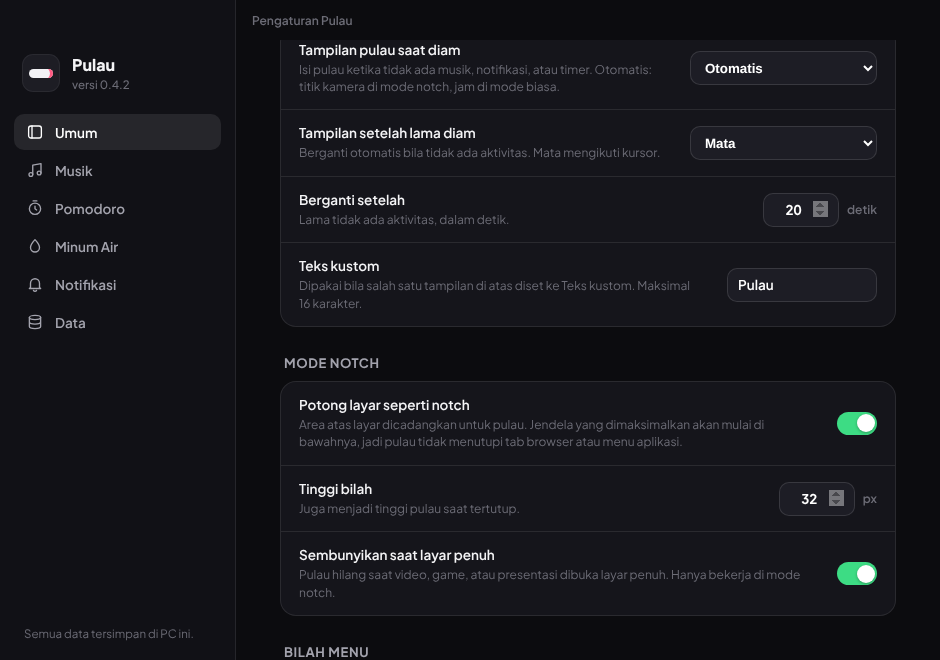
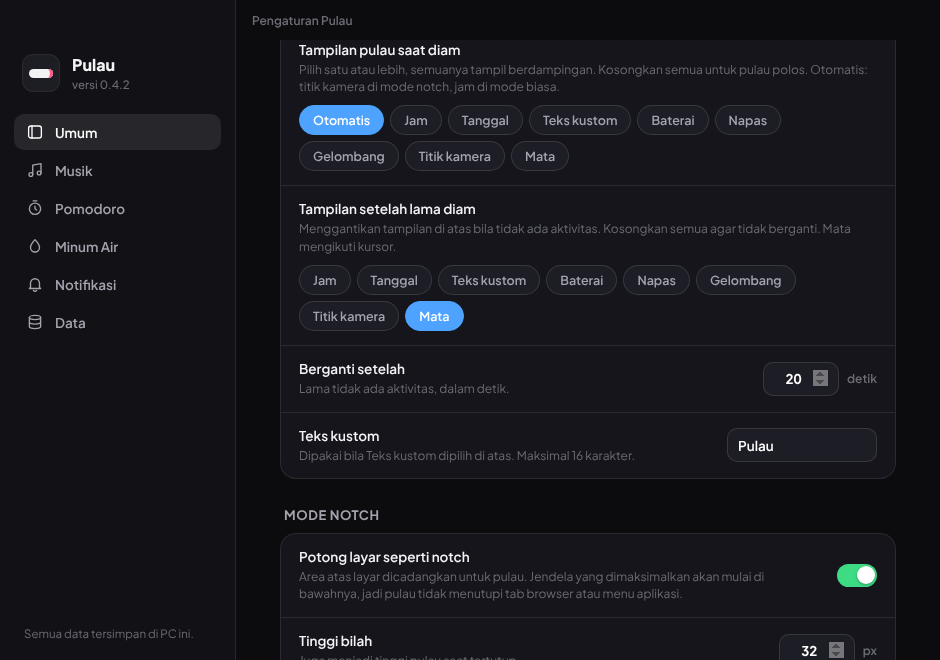
Idle multi pilihan dan tanpa titik hijau (0.5.1)
Claude-Session: https://claude.ai/code/session_01F5Jrps2tSw5S6jwc8pbno1

diff --git a/renderer/js/core.js b/renderer/js/core.js
@@ -160,13 +160,14 @@ function render() {
   else if (buildCompact()) mode = 'compact';
   else mode = 'idle';
   if (mode !== 'idle') P.alt = false;
-  const idle = mode === 'idle' ? idleStyle() : '';
+  const idle = mode === 'idle' ? idleItems() : [];
 
   island.dataset.mode = mode;
   island.dataset.page = P.page;
-  island.dataset.idle = idle;
+  island.dataset.idle = idle.join(' ');
   idleApply();
-  if ((idle === 'eyes') !== P.curOn) { P.curOn = idle === 'eyes'; api.wantCursor(P.curOn); }
+  const eyesOn = idle.includes('eyes');
+  if (eyesOn !== P.curOn) { P.curOn = eyesOn; api.wantCursor(eyesOn); }
   island.classList.toggle('al-small', mode === 'alert' && (P.alert.h || 64) < 56);
 
   const notch = !!P.S.notch;
@@ -178,8 +179,7 @@ function render() {
   if (mode === 'expanded') { w = P.mods[P.page].width(); h = 190; }
   else if (mode === 'alert') { w = P.alert.w || 380; h = Math.max(P.alert.h || 64, notch ? barH : 0); }
   else if (mode === 'compact') { w = P.compactW; h = notch ? barH : 38; }
-  else if (idle === 'eyes') { w = 124; }
-  else if (idle === 'text') { w = Math.max(150, Math.min(280, 44 + (String(P.S.idleText || '').length) * 8)); }
+  else if (idle.length) { w = idleWidth(idle); }
   island.style.width = w + 'px';
   island.style.height = h + 'px';
 
@@ -285,20 +285,34 @@ function clock() {
 }
 
 /* ---------- tampilan idle (bisa dikustom) ---------- */
-const IDLE_STYLES = ['clock', 'date', 'text', 'battery', 'breath', 'wave', 'cam', 'eyes', 'none'];
+const IDLE_ITEMS = ['cam', 'eyes', 'breath', 'wave', 'clock', 'date', 'text', 'battery']; // urutan tampil
 const idleBat = { level: -1, charging: false };
-// gaya yang berlaku sekarang: gaya dasar, atau gaya "setelah lama diam" bila P.alt aktif
-function idleStyle() {
-  let s = P.alt ? P.S.idleAlt : P.S.idleStyle;
-  if (!s || s === 'auto' || s === 'same' || !IDLE_STYLES.includes(s)) s = P.S.notch && P.S.menubar !== false ? 'cam' : 'clock';
-  if (s === 'battery' && idleBat.level < 0) s = P.S.notch && P.S.menubar !== false ? 'cam' : 'clock'; // PC tanpa baterai
-  return s;
+const autoIdle = () => (P.S.notch && P.S.menubar !== false ? 'cam' : 'clock');
+// item yang tampil sekarang: pilihan dasar, atau pilihan "setelah lama diam" bila P.alt aktif
+function idleItems() {
+  const raw = P.alt ? P.S.idleAltItems : P.S.idleItems;
+  const list = Array.isArray(raw) ? raw : [];
+  const set = new Set(list.map((x) => (x === 'auto' ? autoIdle() : x)));
+  if (idleBat.level < 0) set.delete('battery'); // PC tanpa baterai
+  if (!set.size && list.length) set.add(autoIdle());
+  return IDLE_ITEMS.filter((x) => set.has(x));
 }
-let idleSig = '';
+let idleSig = '', idleW = 150;
+// lebar pulau mengikuti isinya; diukur hanya saat isi berubah
+function idleWidth(items) {
+  if (items.length === 1 && items[0] === 'eyes') return 124;
+  const sig = items.join() + '|' + (P.S.idleText || '') + '|' + $('#idleDate').textContent + '|' + idleBat.level;
+  if (sig === idleSig) return idleW;
+  idleSig = sig;
+  const row = $('#idleRow');
+  idleW = Math.max(150, Math.min(380, Math.ceil(row.offsetWidth) + 44));
+  return idleW;
+}
+let idleApplied = '';
 function idleApply() { // tulis DOM hanya bila isinya berubah
   const sig = (P.S.idleText || '') + '|' + idleBat.level + idleBat.charging;
-  if (sig === idleSig) return;
-  idleSig = sig;
+  if (sig === idleApplied) return;
+  idleApplied = sig;
   $('#idleText').textContent = String(P.S.idleText || '').slice(0, 16);
   if (idleBat.level >= 0) {
     const pct = Math.round(idleBat.level * 100);
@@ -319,13 +333,12 @@ if (navigator.getBattery) {
 }
 function eyesTick() { // nama lama: sekarang mengatur peralihan ke gaya "setelah lama diam"
   if (!P.S) return;
-  const alt = P.S.idleAlt;
-  const want = !!alt && alt !== 'same' && island.dataset.mode === 'idle' && !P.alert &&
+  const want = Array.isArray(P.S.idleAltItems) && P.S.idleAltItems.length > 0 && island.dataset.mode === 'idle' && !P.alert &&
     Date.now() - P.lastActive > (P.S.eyesAfter || 20) * 1000;
   if (want !== P.alt) { P.alt = want; render(); }
 }
 api.onCursor(({ x, y }) => {
-  if (island.dataset.idle !== 'eyes') return;
+  if (!P.curOn) return;
   const cx = window.innerWidth / 2;
   const ex = Math.max(-1, Math.min(1, (x - cx) / 220)) * 3.5;
   const ey = Math.max(-1, Math.min(1, (y - 16) / 220)) * 3.5;

diff --git a/renderer/island.css b/renderer/island.css
@@ -40,7 +40,7 @@ body:not(.menubar) .mb-left, body:not(.menubar) .mb-right { visibility: hidden; 
 .mb-it svg .dim { opacity: .3; }
 .mb-it .pct { font-size: 12px; }
 .mb-clock { font-weight: 600; }
-.cam { display: none; grid-area: 1 / 1; width: 9px; height: 9px; border-radius: 50%; background: radial-gradient(circle at 35% 35%, #2b3242 0 25%, #12141a 45%); box-shadow: 0 0 0 1.5px #0b0b0d; }
+.cam { display: none; width: 9px; height: 9px; border-radius: 50%; background: radial-gradient(circle at 35% 35%, #2b3242 0 25%, #12141a 45%); box-shadow: 0 0 0 1.5px #0b0b0d; }
 body.bar-black #island::before, body.bar-black #island::after { display: none; }
 body.bar-black #island[data-mode="idle"] .body, body.bar-black #island[data-mode="compact"] .body { box-shadow: none; }
 body.notch .c-left .art { width: min(26px, calc(var(--barh) - 6px)); height: min(26px, calc(var(--barh) - 6px)); }
@@ -128,19 +128,20 @@ body.notch .c-left .art { width: min(26px, calc(var(--barh) - 6px)); height: min
 
 /* ================= idle ================= */
 .v-idle { display: grid; place-items: center; }
-/* hanya satu gaya yang tampil; yang lain display:none sehingga animasinya benar benar berhenti */
-.v-idle > * { grid-area: 1 / 1; display: none; animation: idleIn .35s ease both; }
+.idle-row { display: flex; align-items: center; justify-content: center; gap: 12px; white-space: nowrap; flex: none; }
+/* hanya gaya yang dipilih yang tampil; sisanya display:none sehingga animasinya benar benar berhenti */
+.idle-row > * { display: none; flex: none; animation: idleIn .35s ease both; }
 @keyframes idleIn { from { opacity: 0; transform: scale(.7); } to { opacity: 1; transform: none; } }
-#island[data-idle="clock"] .idle-clock { display: flex; }
-#island[data-idle="date"] .idle-date { display: block; }
-#island[data-idle="text"] .idle-text { display: block; }
-#island[data-idle="battery"] .idle-bat { display: flex; }
-#island[data-idle="breath"] .idle-breath { display: block; }
-#island[data-idle="wave"] .idle-wave { display: block; }
-#island[data-idle="cam"] .cam { display: block; }
-#island[data-idle="eyes"] .eyes { display: flex; }
+#island[data-idle~="clock"] .idle-clock { display: flex; }
+#island[data-idle~="date"] .idle-date { display: block; }
+#island[data-idle~="text"] .idle-text { display: block; }
+#island[data-idle~="battery"] .idle-bat { display: flex; }
+#island[data-idle~="breath"] .idle-breath { display: block; }
+#island[data-idle~="wave"] .idle-wave { display: block; }
+#island[data-idle~="cam"] .cam { display: block; }
+#island[data-idle~="eyes"] .eyes { display: flex; }
 .idle-clock { align-items: center; gap: 8px; font-size: 13px; font-weight: 700; letter-spacing: .2px; font-variant-numeric: tabular-nums; }
-.idle-date, .idle-text { font-size: 12.5px; font-weight: 700; letter-spacing: .2px; white-space: nowrap; overflow: hidden; text-overflow: ellipsis; max-width: 100%; padding: 0 12px; }
+.idle-date, .idle-text { font-size: 12.5px; font-weight: 700; letter-spacing: .2px; white-space: nowrap; }
 .idle-bat { align-items: center; gap: 6px; font-size: 12px; font-weight: 700; font-variant-numeric: tabular-nums; }
 .idle-bat svg { width: 16px; height: 16px; transform: rotate(-90deg); fill: none; stroke-width: 2.6; stroke-linecap: round; }
 .idle-bat .trk { stroke: rgba(255, 255, 255, .22); }
@@ -150,7 +151,6 @@ body.notch .c-left .art { width: min(26px, calc(var(--barh) - 6px)); height: min
 .idle-wave { width: 56px; height: 14px; overflow: hidden; -webkit-mask-image: linear-gradient(90deg, transparent, #000 28%, #000 72%, transparent); }
 .idle-wave svg { display: block; fill: none; stroke: rgb(var(--accent)); stroke-width: 1.8; stroke-linecap: round; animation: wave 2.4s linear infinite; }
 @keyframes wave { from { transform: translateX(0); } to { transform: translateX(-56px); } }
-.live-dot { width: 7px; height: 7px; border-radius: 50%; background: var(--green); box-shadow: 0 0 8px rgba(61, 220, 132, .7); }
 .eyes { gap: 14px; }
 .eye { width: 15px; height: 19px; border-radius: 50%; background: #fff; position: relative; overflow: hidden; animation: blink 5.5s infinite; }
 .eye b { position: absolute; width: 8px; height: 9px; border-radius: 50%; background: #000; left: 3.5px; top: 5px; transform: translate(var(--ex, 0), var(--ey, 0)); transition: transform .14s ease-out; }

diff --git a/renderer/settings.html b/renderer/settings.html
@@ -36,34 +36,12 @@
     </div>
     <h2>Tampilan saat diam</h2>
     <div class="card">
-      <label class="row"><div><b>Tampilan pulau saat diam</b><span>Isi pulau ketika tidak ada musik, notifikasi, atau timer. Otomatis: titik kamera di mode notch, jam di mode biasa.</span></div>
-        <select class="sel" data-k="idleStyle">
-          <option value="auto">Otomatis</option>
-          <option value="clock">Jam</option>
-          <option value="date">Tanggal</option>
-          <option value="text">Teks kustom</option>
-          <option value="battery">Baterai</option>
-          <option value="breath">Napas (titik berdenyut)</option>
-          <option value="wave">Gelombang</option>
-          <option value="cam">Titik kamera</option>
-          <option value="eyes">Mata</option>
-          <option value="none">Kosong</option>
-        </select></label>
-      <label class="row"><div><b>Tampilan setelah lama diam</b><span>Berganti otomatis bila tidak ada aktivitas. Mata mengikuti kursor.</span></div>
-        <select class="sel" data-k="idleAlt">
-          <option value="same">Tidak berganti</option>
-          <option value="eyes">Mata</option>
-          <option value="breath">Napas (titik berdenyut)</option>
-          <option value="wave">Gelombang</option>
-          <option value="clock">Jam</option>
-          <option value="date">Tanggal</option>
-          <option value="text">Teks kustom</option>
-          <option value="battery">Baterai</option>
-          <option value="cam">Titik kamera</option>
-          <option value="none">Kosong</option>
-        </select></label>
+      <div class="row col"><div><b>Tampilan pulau saat diam</b><span>Pilih satu atau lebih, semuanya tampil berdampingan. Kosongkan semua untuk pulau polos. Otomatis: titik kamera di mode notch, jam di mode biasa.</span></div>
+        <div class="chips" data-multi="idleItems"><button class="chip" data-v="auto">Otomatis</button><button class="chip" data-v="clock">Jam</button><button class="chip" data-v="date">Tanggal</button><button class="chip" data-v="text">Teks kustom</button><button class="chip" data-v="battery">Baterai</button><button class="chip" data-v="breath">Napas</button><button class="chip" data-v="wave">Gelombang</button><button class="chip" data-v="cam">Titik kamera</button><button class="chip" data-v="eyes">Mata</button></div></div>
+      <div class="row col"><div><b>Tampilan setelah lama diam</b><span>Menggantikan tampilan di atas bila tidak ada aktivitas. Kosongkan semua agar tidak berganti. Mata mengikuti kursor.</span></div>
+        <div class="chips" data-multi="idleAltItems"><button class="chip" data-v="clock">Jam</button><button class="chip" data-v="date">Tanggal</button><button class="chip" data-v="text">Teks kustom</button><button class="chip" data-v="battery">Baterai</button><button class="chip" data-v="breath">Napas</button><button class="chip" data-v="wave">Gelombang</button><button class="chip" data-v="cam">Titik kamera</button><button class="chip" data-v="eyes">Mata</button></div></div>
       <label class="row"><div><b>Berganti setelah</b><span>Lama tidak ada aktivitas, dalam detik.</span></div><span class="num"><input type="number" data-k="eyesAfter" min="5" max="600" step="5"><em>detik</em></span></label>
-      <label class="row"><div><b>Teks kustom</b><span>Dipakai bila salah satu tampilan di atas diset ke Teks kustom. Maksimal 16 karakter.</span></div><input type="text" class="sel" data-k="idleText" maxlength="16" style="width:150px;cursor:text"></label>
+      <label class="row"><div><b>Teks kustom</b><span>Dipakai bila Teks kustom dipilih di atas. Maksimal 16 karakter.</span></div><input type="text" class="sel" data-k="idleText" maxlength="16" style="width:150px;cursor:text"></label>
     </div>
     <h2>Mode notch</h2>
     <div class="card">

diff --git a/renderer/js/settings.js b/renderer/js/settings.js
@@ -22,6 +22,10 @@ function fill() {
     const v = getP(S, el.dataset.k);
     if (el.type === 'checkbox') el.checked = !!v;
     else if (document.activeElement !== el) el.value = v;
+  }
+  for (const box of $$('[data-multi]')) {
+    const cur = getP(S, box.dataset.multi);
+    for (const c of box.children) c.classList.toggle('on', Array.isArray(cur) && cur.includes(c.dataset.v));
   }  // baris yang hanya relevan untuk pilihan tertentu, misalnya data-when="barEffect=blur"
   for (const el of $$('[data-when]')) {
     const [k, v] = el.dataset.when.split('=');
@@ -52,6 +56,17 @@ function bind() {
         api.set('settings', S); toast();
       });
     }
+  }
+  // pilihan ganda berbentuk chip: Otomatis saling menggantikan dengan pilihan lain
+  for (const box of $$('[data-multi]')) {
+    box.addEventListener('click', (e) => {
+      const c = e.target.closest('.chip'); if (!c) return;
+      const k = box.dataset.multi, v = c.dataset.v;
+      let cur = Array.isArray(getP(S, k)) ? [...getP(S, k)] : [];
+      if (cur.includes(v)) cur = cur.filter((x) => x !== v);
+      else cur = v === 'auto' ? ['auto'] : [...cur.filter((x) => x !== 'auto'), v];
+      setP(S, k, cur); api.set('settings', S); fill(); toast();
+    });
   }
   // cegah semua halaman dimatikan
   for (const el of $$('[data-k^="pages."]')) {

diff --git a/renderer/index.html b/renderer/index.html
@@ -27,16 +27,16 @@
 <div class="body">
 
   <!-- IDLE: gaya dipilih lewat data-idle -->
-  <div class="view v-idle">
-    <div class="idle-clock"><span class="live-dot"></span><span id="clock">00:00</span></div>
+  <div class="view v-idle"><div class="idle-row" id="idleRow">
+    <div class="cam"></div>
+    <div class="eyes"><i class="eye"><b></b></i><i class="eye"><b></b></i></div>
+    <div class="idle-breath"><i></i></div>
+    <div class="idle-wave"><svg viewBox="0 0 112 14" width="112" height="14"><path d="M0 7Q7 0 14 7T28 7T42 7T56 7T70 7T84 7T98 7T112 7"/></svg></div>
+    <div class="idle-clock"><span id="clock">00:00</span></div>
     <div class="idle-date" id="idleDate"></div>
     <div class="idle-text" id="idleText"></div>
     <div class="idle-bat"><svg viewBox="0 0 20 20"><circle cx="10" cy="10" r="7.5" class="trk"/><circle cx="10" cy="10" r="7.5" class="val" id="idleBatVal"/></svg><span id="idleBatPct"></span></div>
-    <div class="idle-breath"><i></i></div>
-    <div class="idle-wave"><svg viewBox="0 0 112 14" width="112" height="14"><path d="M0 7Q7 0 14 7T28 7T42 7T56 7T70 7T84 7T98 7T112 7"/></svg></div>
-    <div class="cam"></div>
-    <div class="eyes"><i class="eye"><b></b></i><i class="eye"><b></b></i></div>
-  </div>
+  </div></div>
 
   <!-- COMPACT -->
   <div class="view v-compact">

diff --git a/main.js b/main.js
@@ -450,6 +450,13 @@ app.whenReady().then(() => {
   // migrasi dari 0.4.9: saklar "mata" menjadi pilihan gaya idle (idleAlt)
   { const s = store.get('settings');
     if (!s._migrated050) { if (s.eyes === false) s.idleAlt = 'same'; delete s.eyes; s._migrated050 = true; store.set('settings', s); } }
+  // migrasi dari 0.5.0: gaya idle tunggal (teks) menjadi daftar yang bisa dipilih banyak (idleItems, idleAltItems)
+  { const s = store.get('settings');
+    if (!s._migrated051) {
+      if (typeof s.idleStyle === 'string') s.idleItems = [s.idleStyle];
+      if (typeof s.idleAlt === 'string') s.idleAltItems = s.idleAlt === 'same' || s.idleAlt === 'none' ? [] : [s.idleAlt];
+      delete s.idleStyle; delete s.idleAlt; s._migrated051 = true; store.set('settings', s);
+    } }
   lastSettings = JSON.parse(JSON.stringify(store.get('settings')));
   log.setLevel(lastSettings.logLevel);
   log.info('app', `Pulau ${app.getVersion()} dimulai (Electron ${process.versions.electron}, Windows ${process.getSystemVersion ? process.getSystemVersion() : ''})`);

diff --git a/renderer/settings.css b/renderer/settings.css
@@ -72,3 +72,9 @@ label.row { cursor: pointer; }
 .toast.on { opacity: 1; transform: translate(-50%, 0); }
 
 .row.hidden { display: none; }
+
+.row.col { flex-direction: column; align-items: stretch; gap: 10px; }
+.chips { display: flex; flex-wrap: wrap; gap: 6px; }
+.chip { height: 30px; padding: 0 13px; border-radius: 15px; border: 1px solid rgba(255, 255, 255, .12); background: #1d1d25; color: var(--txt2, #ccc); font: inherit; font-weight: 600; font-size: 12.5px; cursor: pointer; transition: background .15s, border-color .15s, color .15s; }
+.chip:hover { border-color: rgba(255, 255, 255, .3); }
+.chip.on { background: var(--blue); border-color: var(--blue); color: #fff; }

diff --git a/store.js b/store.js
@@ -8,8 +8,8 @@ const DEFAULTS = {
     lyricsCompact: true,
     artColor: true,
     artOnline: true,
-    idleStyle: 'auto',
-    idleAlt: 'eyes',
+    idleItems: ['auto'],
+    idleAltItems: ['eyes'],
     idleText: 'Pulau',
     notch: true,
     notchBlack: true,

diff --git a/README.md b/README.md
@@ -2,7 +2,7 @@
 
 *Dynamic Island* untuk Windows 10 dan 11. Sebuah kapsul hitam di tengah atas layar yang menampilkan pemutar musik dengan lirik tersinkron, timer Pomodoro, pengingat minum, rak file, daftar tugas, dan notifikasi sistem. Semua data tersimpan di PC sendiri, tanpa akun dan tanpa server.
 
-> Status: versi 0.5.0. Dibuat dengan Electron. Bagian yang membaca musik dan sistem dari Windows belum diuji pada banyak perangkat, jadi laporan *bug* sangat membantu.
+> Status: versi 0.5.1. Dibuat dengan Electron. Bagian yang membaca musik dan sistem dari Windows belum diuji pada banyak perangkat, jadi laporan *bug* sangat membantu.
 
 ## Fitur
 
@@ -16,7 +16,7 @@
 | Rak File | Seret file ke pulau, seret keluar ke aplikasi lain. Hanya menyimpan lokasi file. |
 | Daftar Tugas | Tugas harian dengan pengingat jam. Klik dua kali untuk mengubah teks. |
 | Notifikasi sistem | Pengisi daya, baterai lemah, *headphone* atau *speaker* terhubung, Caps Lock, volume. |
-| Tampilan saat diam | Isi pulau saat tidak ada musik atau notifikasi bisa dipilih: jam, tanggal, teks kustom (maks. 16 karakter), baterai, napas, gelombang, titik kamera, mata, atau kosong. Ada pilihan kedua yang menggantikannya setelah beberapa saat tanpa aktivitas (bawaan: mata yang mengikuti kursor). |
+| Tampilan saat diam | Isi pulau saat tidak ada musik atau notifikasi bisa dipilih lebih dari satu dan tampil berdampingan: jam, tanggal, teks kustom (maks. 16 karakter), baterai, napas, gelombang, titik kamera, atau mata. Kosongkan semua untuk pulau polos. Ada pilihan kedua yang menggantikannya setelah beberapa saat tanpa aktivitas (bawaan: mata yang mengikuti kursor). |
 | Mode *notch* | Area atas layar dicadangkan seperti *notch* MacBook, jadi jendela yang dimaksimalkan tidak tertutup pulau. Bilah hitam penuh, tinggi bilah dapat diatur, pulau otomatis sembunyi saat layar penuh. |
 | Bilah menu | Seperti macOS: logo dengan menu cepat, aplikasi aktif dan judul jendela di kiri, Wi-Fi, volume, baterai, tanggal dan jam di kanan. Warna bilah Otomatis mengikuti bagian atas jendela yang aktif (wallpaper saat di desktop), atau Ikuti tema sistem (hitam atau putih). Efek latar dipilih terpisah: Padat, Blur (hanya saat desktop terlihat; wallpaper dikaburkan dan diberi tinta; kekuatan blur 0 sampai 100% dengan 0% berarti transparan, dan kepekatan warna diatur terpisah), atau Transparan. |
 | Log aktivitas | Tiga level: Mati, Hanya galat, Semua aktivitas. Ada penampil log di Pengaturan. |
@@ -64,7 +64,7 @@ npm run dist       # bangun installer di folder dist/
 
 Di Linux atau macOS, antarmuka tetap bisa dibuka untuk pengerjaan tampilan, tetapi data musik dan sistem tidak tersedia karena memakai PowerShell dan API Windows.
 
-*Installer* juga dibangun otomatis oleh GitHub Actions (`.github/workflows/build.yml`) pada setiap *push*. Untuk membuat rilis, beri *tag* `v0.5.0` dan hasilnya terlampir di halaman Releases.
+*Installer* juga dibangun otomatis oleh GitHub Actions (`.github/workflows/build.yml`) pada setiap *push*. Untuk membuat rilis, beri *tag* `v0.5.1` dan hasilnya terlampir di halaman Releases.
 
 ## Struktur proyek
 

diff --git a/CHANGELOG.md b/CHANGELOG.md
@@ -2,6 +2,14 @@
 
 Mengikuti [Keep a Changelog](https://keepachangelog.com/id-ID/1.1.0/) dan [Semantic Versioning](https://semver.org/lang/id/).
 
+## [0.5.1] 2026-10-19
+
+### Diubah
+- Tampilan idle bisa dipilih lebih dari satu (multi pilihan) dan tampil berdampingan, misalnya jam + tanggal + baterai
+- Titik hijau di samping jam dihapus
+- Lebar pulau mengikuti isi yang dipilih (diukur hanya saat isi berubah)
+- Pengaturan lama (satu gaya) dimigrasikan otomatis ke daftar baru
+
 ## [0.5.0] 2026-10-19
 
 ### Ditambahkan
